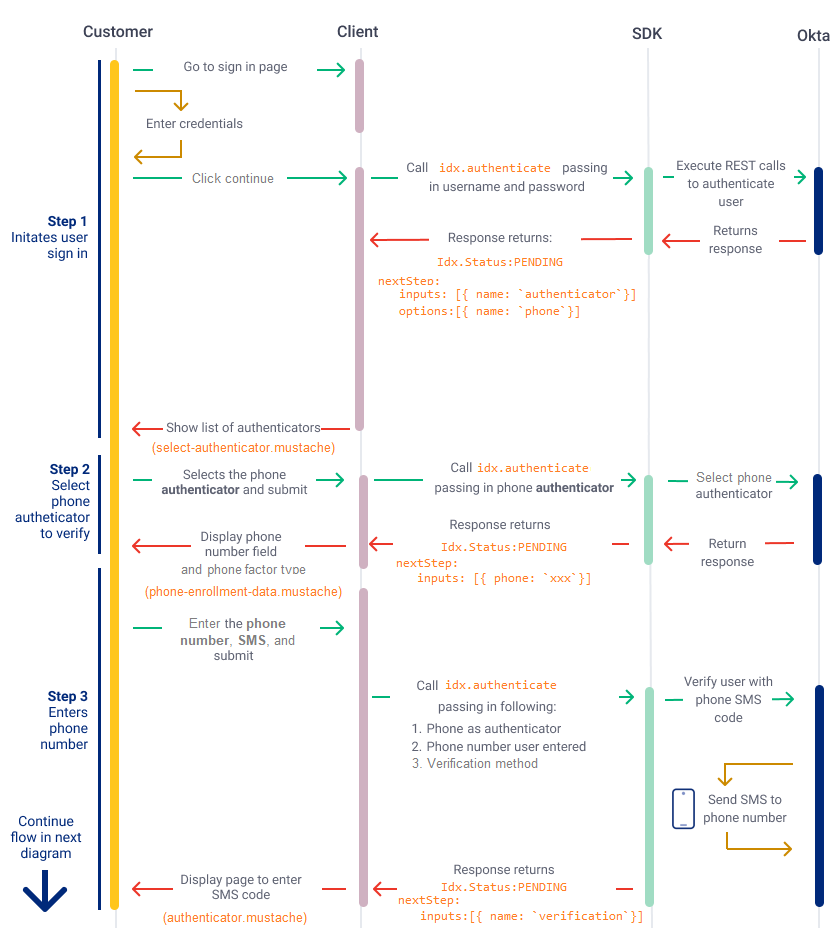
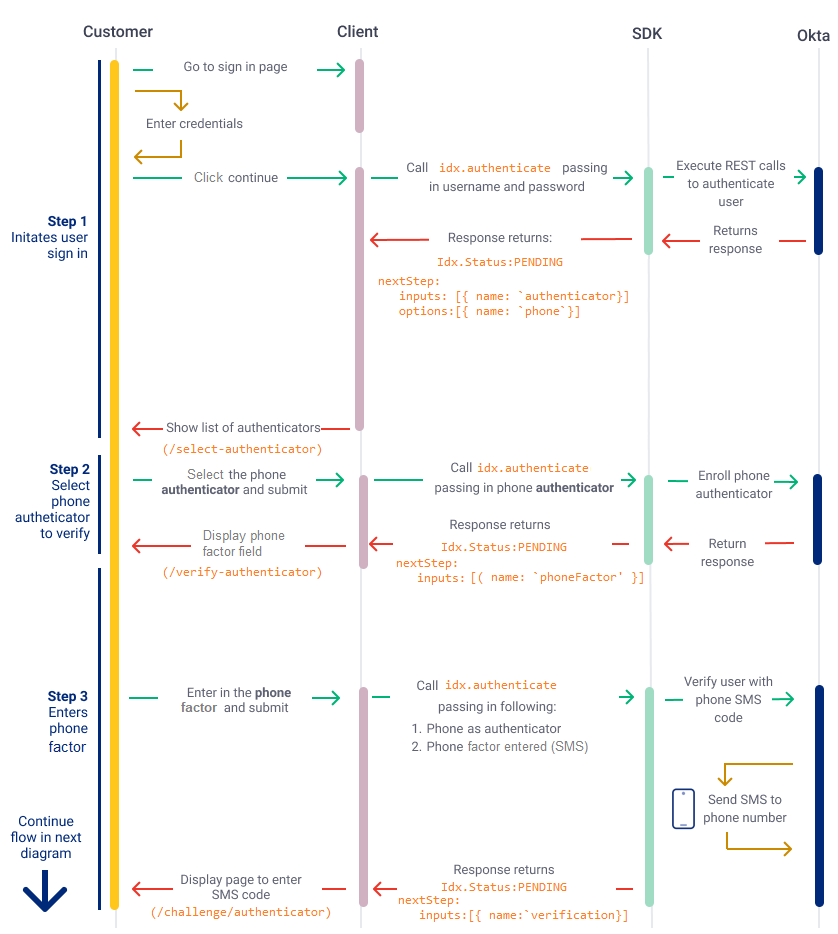
Update sequence flow diagrams for consistency with other cases; include new and appropriate images of sample app; change incorrect text; add alt-text for images

diff --git a/packages/@okta/vuepress-site/docs/guides/oie-embedded-sdk-use-cases/oie-embedded-sdk-use-case-sign-in-pwd-phone/nodejs/integrationsteps.md b/packages/@okta/vuepress-site/docs/guides/oie-embedded-sdk-use-cases/oie-embedded-sdk-use-case-sign-in-pwd-phone/nodejs/integrationsteps.md
@@ -6,7 +6,7 @@ Build a sign-in page that captures the username and password, as shown in the fo
 
 <div class="common-image-format">
 
-![Sign-in page screenshot where user enters username and password for authentication.](/img/oie-embedded-sdk/oie-embedded-sdk-use-case-simple-sign-on-screenshot-sign-in.png)
+![Sign-in page screenshot where user enters username and password for authentication.](/img/oie-embedded-sdk/oie-embedded-sdk-use-case-simple-sign-on-screenshot-sign-in-nodejs.png)
 
 </div>
 
@@ -26,30 +26,35 @@ After this response, you need to redirect the user to an authenticator list page
 
 ### Step 2: Select the phone factor in the authenticator list
 
-In this use case, only the **phone** factor will be displayed in the list of authenticators.
+In this use case, only the **phone** factor will be displayed in the list of authenticators, as shown in the following example page:
 
-When the user selects the **phone** factor, call `idx.authenticate` and pass in the authentication phone type, `{ authenticator: 'phone' }`. If the call is successful, the method returns a status of `Idx.Status:PENDING`, indicating that the SDK needs a phone number in order to send the verification code. The `nextStep` field includes the input for the phone number.
+<div class="common-image-format">
+
+![Displays a screenshot of a Select Authenticator page that includes a phone option and a Select button.](/img/oie-embedded-sdk/oie-embedded-sdk-use-case-sign-in-pwd-phone-screen-verify-nodejs.png)
+
+</div>
+
+>**Note:** For the SDK sample application, your individual users must set up a phone number for phone verification to see this authenticator option in the page.
+
+When the user selects the **phone** factor, call `idx.authenticate` and pass in the authentication phone type, `{ authenticator: 'phone' }`. If the call is successful, the method returns a status of `Idx.Status:PENDING`, indicating that the SDK needs a phone verification method in order to send the verification code. The `nextStep` field includes the input for this method.
 
 ```JavaScript
 status, // IdxStatus.PENDING
   nextStep: {
-    inputs, // [{ phone: '+#######', ... }]
+    inputs, // [{ phoneFactor: 'SMS', ... }]
 }
 ```
 
-The next step is to redirect the user to a page to enter in the phone number.
+The next step is to redirect the user to a page to enter in the phone verification field.
 
-### Step 3: Build the phone number entry page
+### Step 3: Build the phone verification entry page
 
-Build the phone number entry page that accepts the phone number and phone verification method that the user will use for enrollment.
+Build the phone verification method entry page that accepts either SMS or voice verification that that is used for authentication.
 
->**Note:** The SDK requires that the phone number follows the `+#######` format, which starts with a plus (+) sign. See [Data Requirements - Phone number](/docs/guides/oie-embedded-sdk-common/nodejs/main/#phone-number).
-
-When the user enters a phone number and a phone verification method, either SMS or voice verification, and clicks **Submit**, a call to `idx.authenticate` is made that passes in the following values:
+When the user enters a phone verification method, either SMS or voice verification, and clicks **Submit**, a call to `idx.authenticate` is made that passes in the following values:
 
 * Authenticator (type): `{ authenticator: 'phone' }`
-* Phone number: `{ phone: '+#######' }`
-* Verification method: `[ method: 'SMS' }]`
+* Verification method: `{ name: 'SMS' }`
 
 If the call to `idx.authenticate` is successful, the SDK returns another status of `Idx.Status:PENDING`. When this status is returned, it indicates that Okta has sent a code to the phone number through SMS. The `nextStep` field requires the code as a verification input:
 
@@ -64,9 +69,15 @@ status, // IdxStatus.PENDING
 
 Build a page that accepts the code sent to the user's phone number through SMS. Depending on your implementation, this page can be the same page that verifies the email code or a different page.
 
-The next step is to call `idx.authenticate` passing in the verification code `{ verification: 'xxx'}`.
+<div class="common-image-format">
 
-Then, handle the response from `idx.authenticate`. If the phone code was valid, the method returns a status of `Idx.Status:SUCCESS` with tokens. This status signifies that there are no more factors waiting to be enrolled and verified. If the steps described in [Set up your Okta org (for multifactor use cases)](/docs/guides/oie-embedded-common-org-setup/aspnet/main/#set-up-your-okta-org-for-multifactor-use-cases) were properly followed, the user has successfully signed in and is sent to the default sign-in home page.
+![Displays a screenshot of a Challenge Authenticator page that includes a field for the code and a Verifiy button.](/img/oie-embedded-sdk/oie-embedded-sdk-use-case-simple-sign-in-pwd-phone-verify-phone-code-nodejs.png)
+
+</div>
+
+The next step is to call `idx.authenticate` passing in the verification code `{ verification: '123'}`.
+
+Then, handle the response from `idx.authenticate`. If the phone code was valid, the method returns a status of `Idx.Status:SUCCESS` with tokens. This status signifies that there are no more factors waiting to be enrolled and verified. If the steps described in [Set up your Okta org (for multifactor use cases)](/docs/guides/oie-embedded-common-org-setup/aspnet/main/#set-up-your-okta-org-for-multifactor-use-cases) were properly followed, the user is successfully signed in and is sent to the default sign-in home page.
 
 #### Get user profile information (optional)
 

diff --git a/packages/@okta/vuepress-site/docs/guides/oie-embedded-sdk-use-cases/oie-embedded-sdk-use-case-sign-in-pwd-email/nodejs/summaryofsteps.md b/packages/@okta/vuepress-site/docs/guides/oie-embedded-sdk-use-cases/oie-embedded-sdk-use-case-sign-in-pwd-email/nodejs/summaryofsteps.md
@@ -1,6 +1,6 @@
 ## Summary of steps
 
-The following shows the sequence of steps for the sign-in with password and email flow.
+The following diagram displays the sequence of steps for the sign in with password and email flow.
 
 <div class="common-image-format">
 
